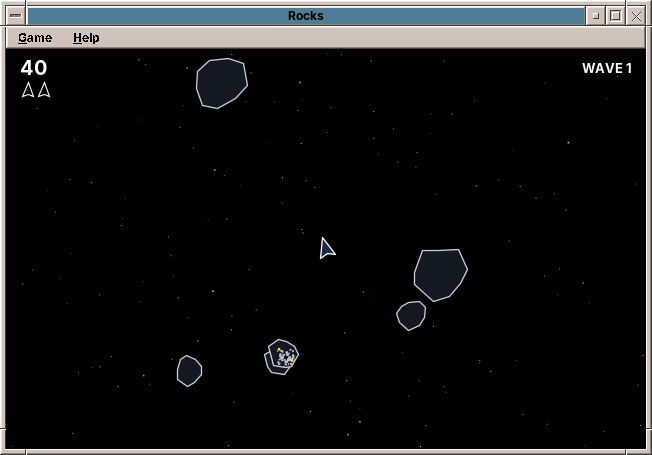
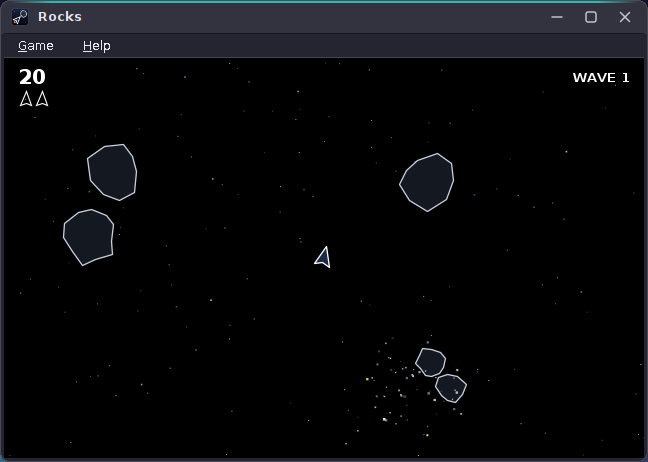
docs(readme): show the Horizon look in the screenshots
The screenshots in docs/screenshots (used by the README and the AppStream
metainfo) showed the classic CDE look. They are replaced by shots in the
Horizon look, Dark scheme; a README without a picture gets one.

Claude-Session: https://claude.ai/code/session_017Pd6NcKy4y87wY8jkALjpZ

diff --git a/README.md b/README.md
@@ -5,6 +5,8 @@
 ![License](https://img.shields.io/badge/license-EUPL--1.2-blue)
 ![Java](https://img.shields.io/badge/Java-25-orange)
 
+![Rocks](docs/screenshots/amade-rocks-game.png)
+
 ## Playing
 
 - **Enter**, **Space** or a **click** (or F2) starts a game.
